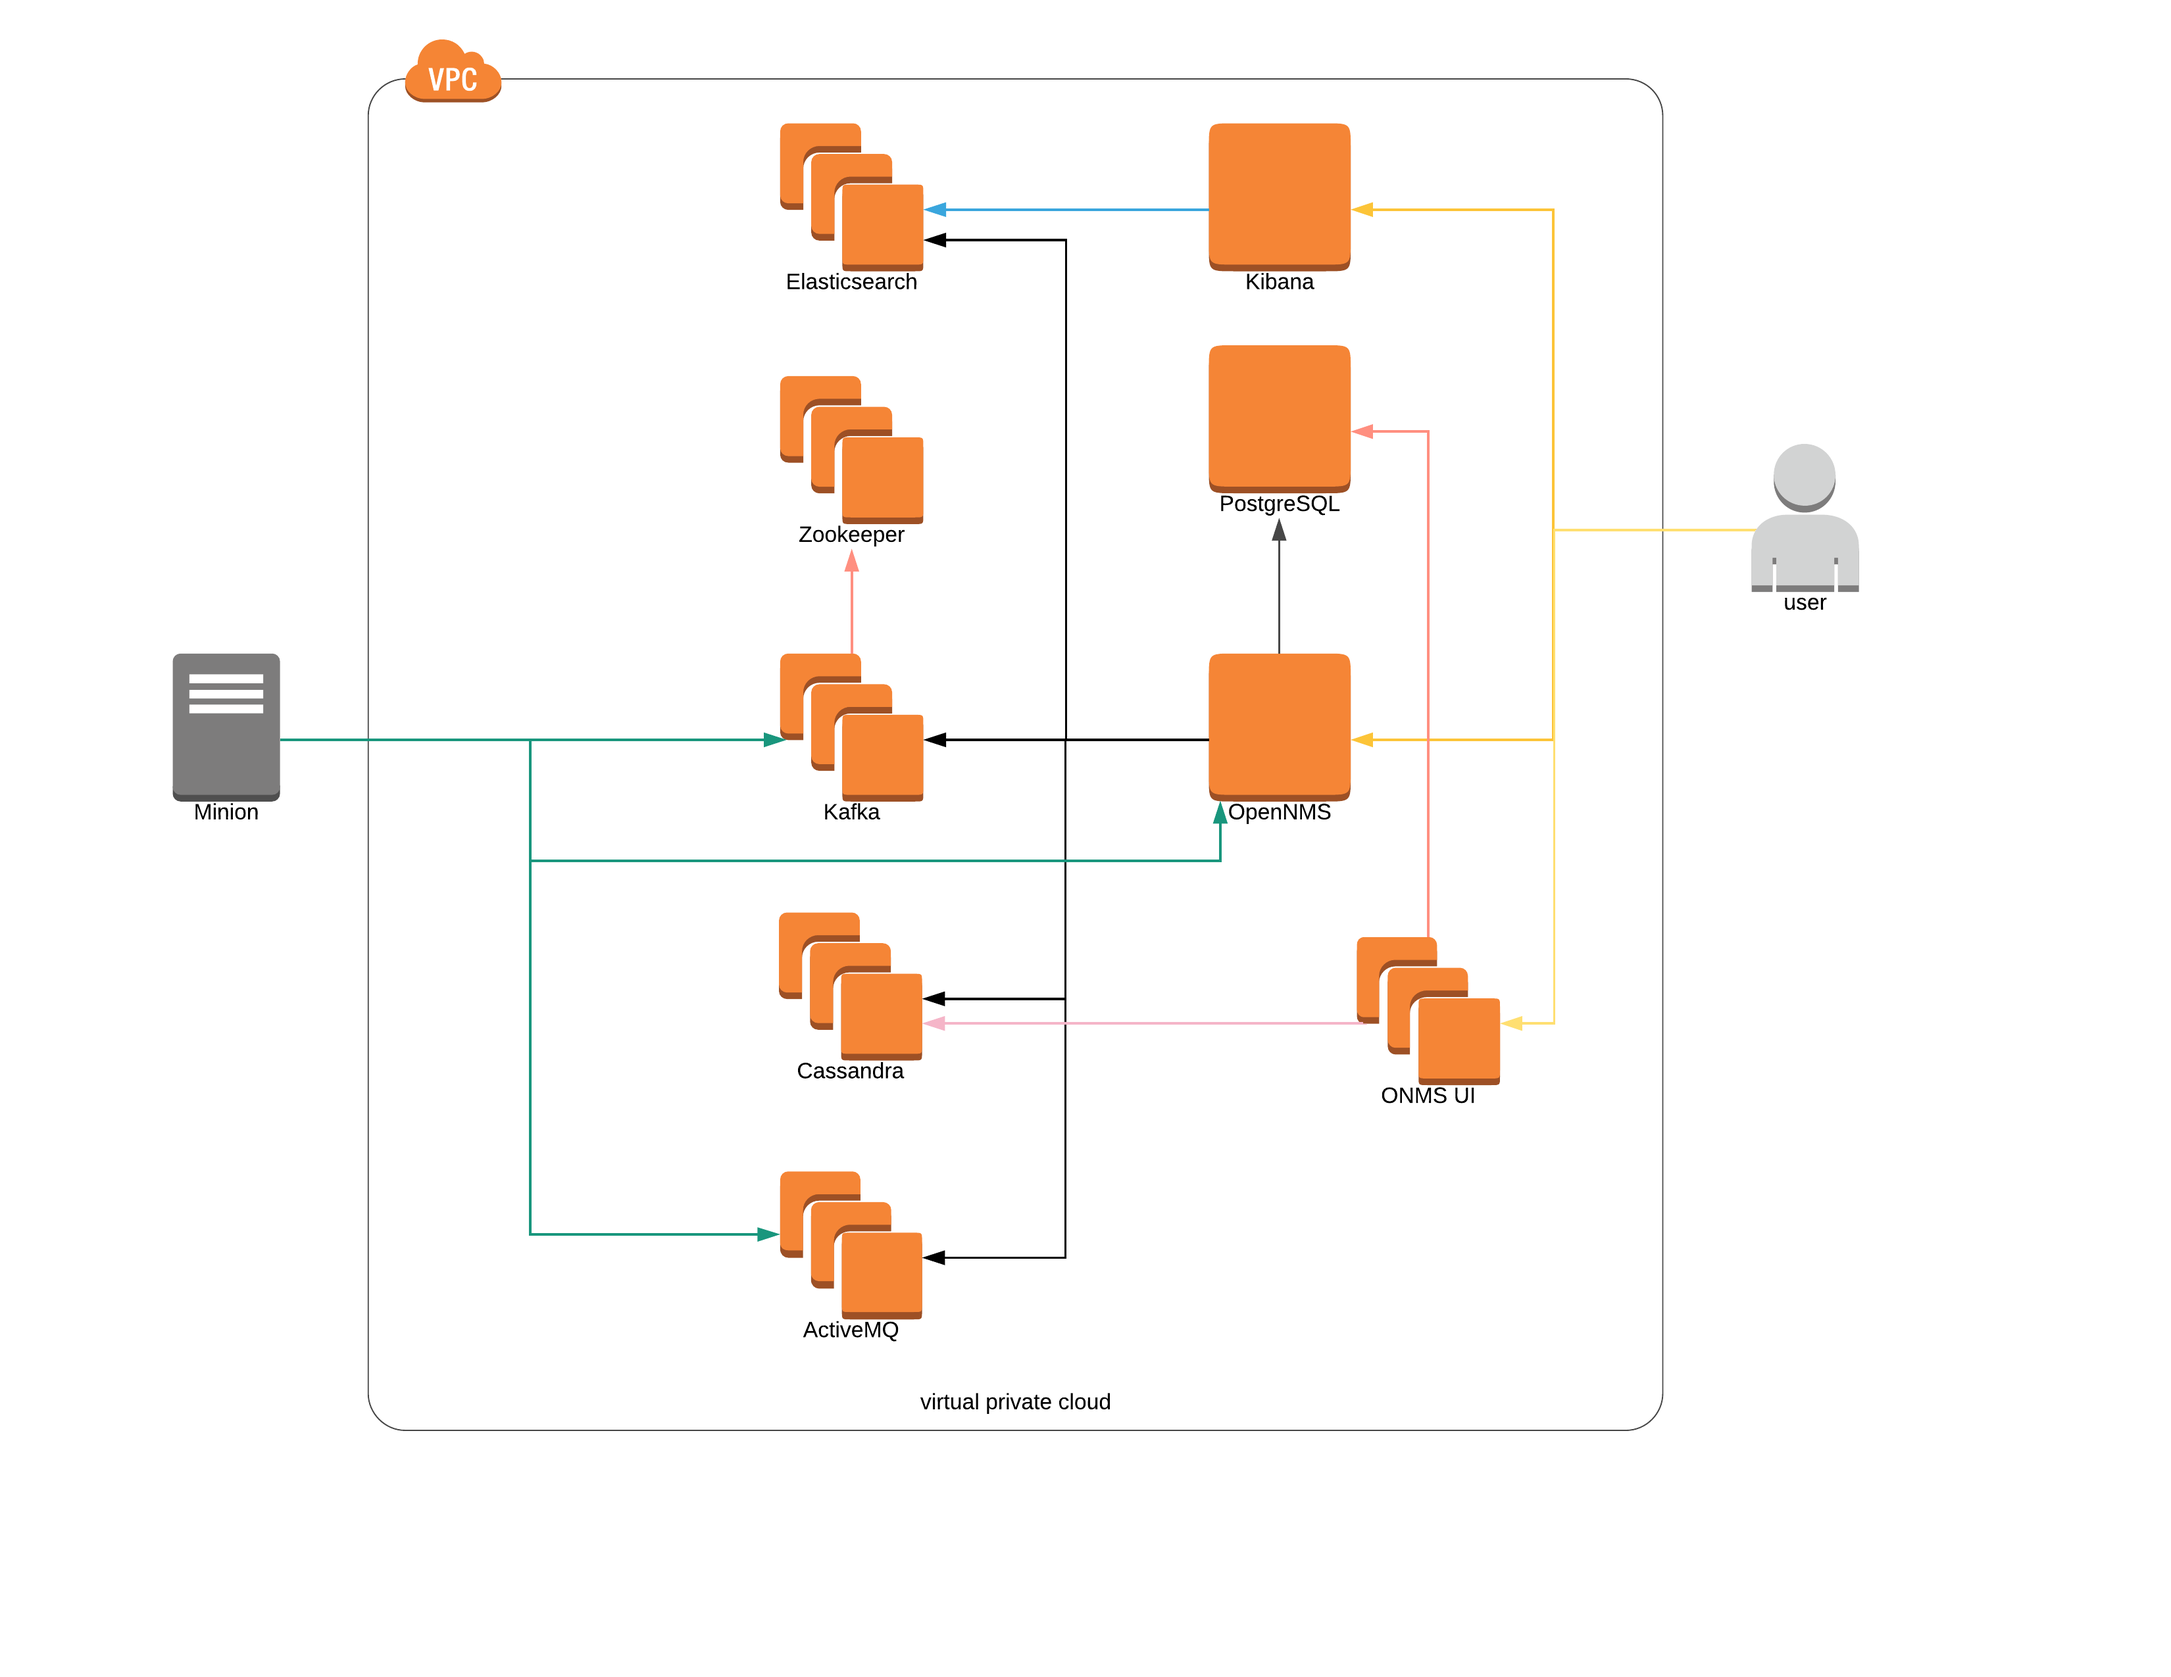
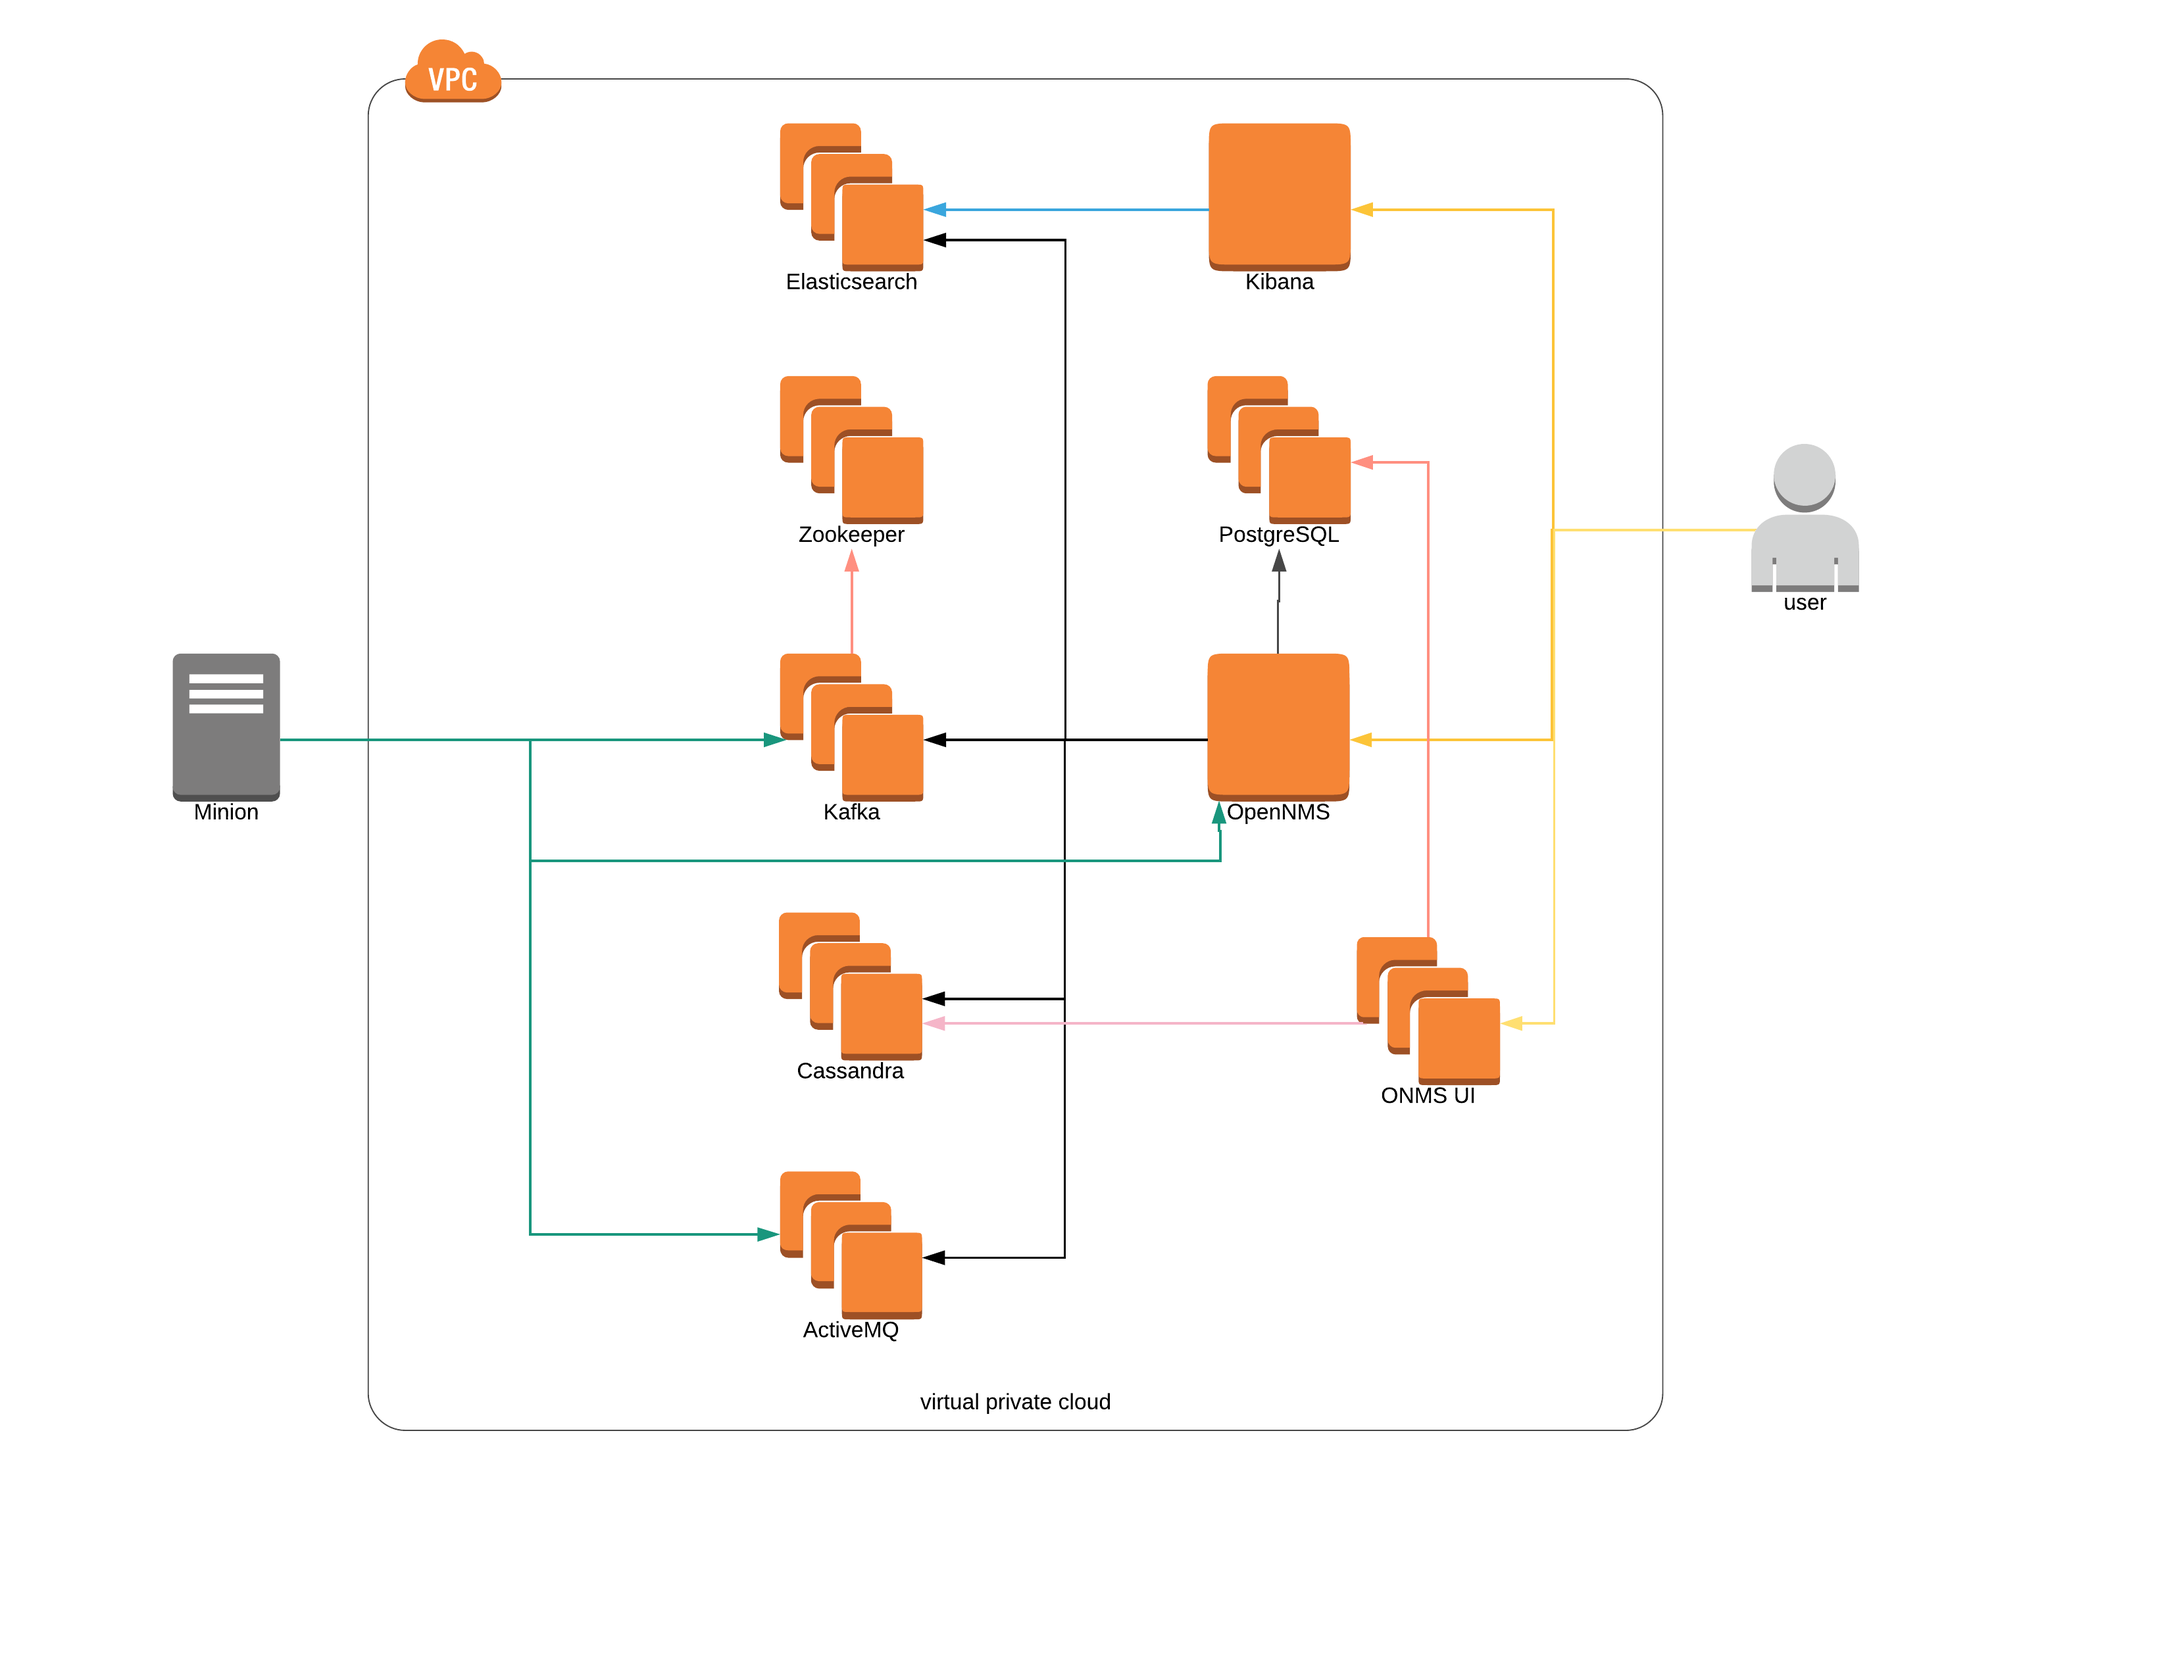
PostgreSQL Streaming Replication w/repmgr
To reduce the single point of failures, now PostgreSQL has been configured on a master/slave mode using streaming replication, managing the status through repmgr with auto-failover.

Also the JDBC URLs have been updated to support multi-node in OpenNMS and Grafana.

Unfortunately, the states on Grafana cannot be stored on PostgreSQL so the load balancer should implement stickiness.

Changed region(s): [[0.5618, 0.1859, 0.6555, 0.3408], [0.5618, 0.4647, 0.6242, 0.4957]]

diff --git a/README.md b/README.md
@@ -85,7 +85,7 @@ The architecture involves the following components:
 
 * A cluster of 2 EC2 instances for OpenNMS UI and Grafana.
 
-* An EC2 instance for PostgreSQL.
+* A pair of EC2 instances for PostgreSQL, configured as master/slave with streaming replication, using repmgr to simplify the operation.
 
 * An EC2 instance for the central OpenNMS.
 
@@ -122,5 +122,3 @@ curl http://169.254.169.254/latest/user-data > /tmp/bootstrap-script.sh
 * Combine all UI technologies into the same servers: OpenNMS UI, Kibana, Kafka Manager, etc.
 
 * Provide a sample Curator implementation (on the ES master servers).
-
-* Configure PostgreSQL as master/slave with streaming replication.
